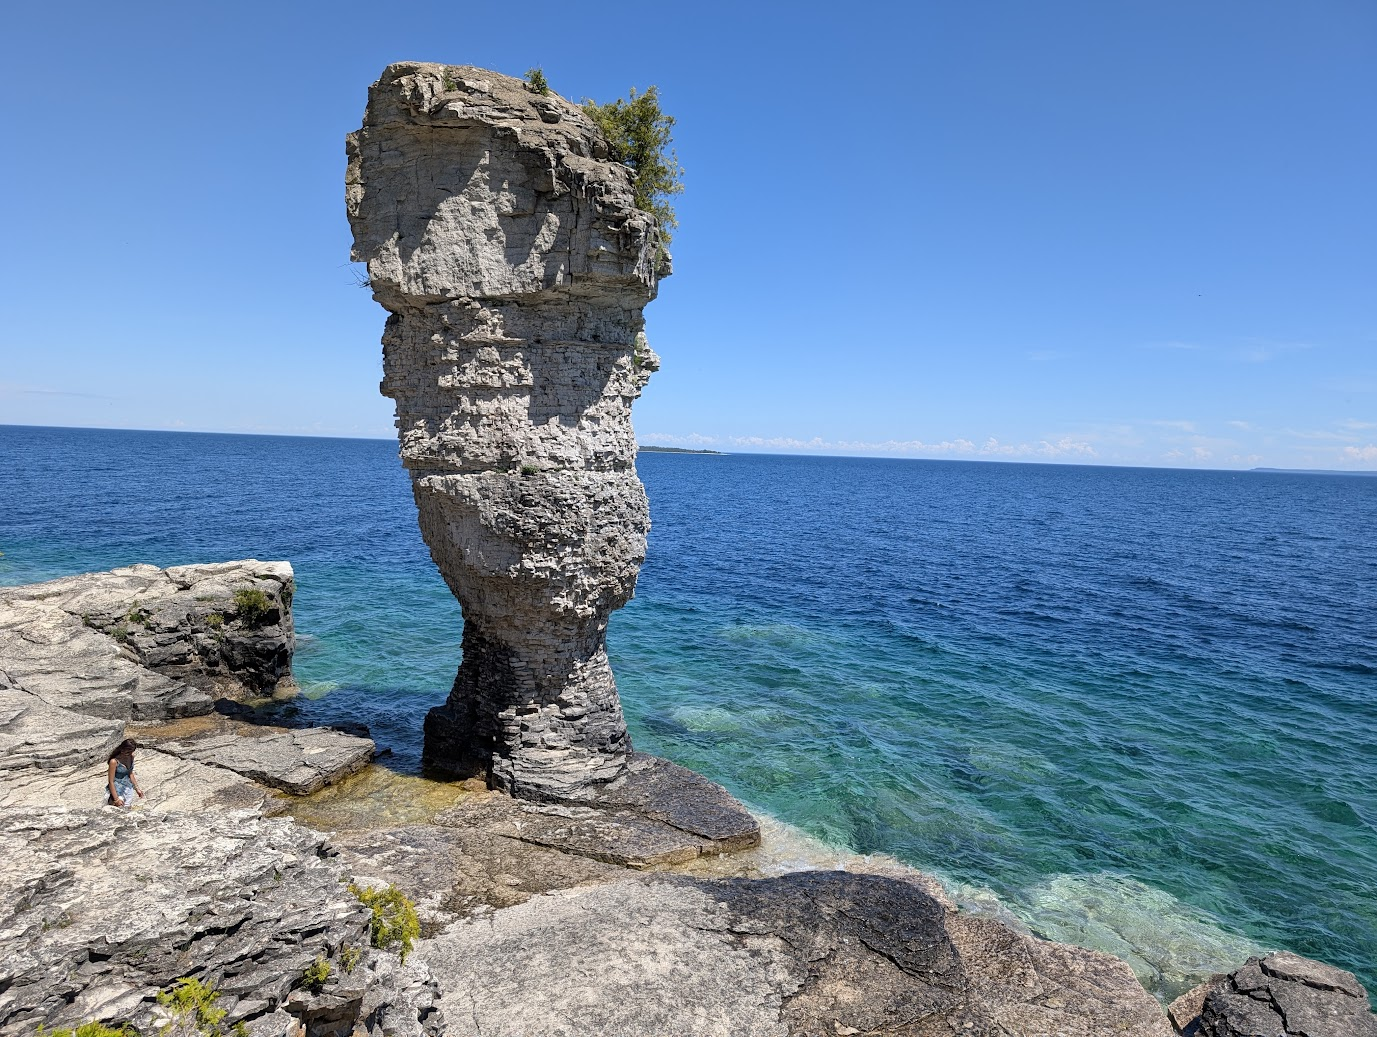
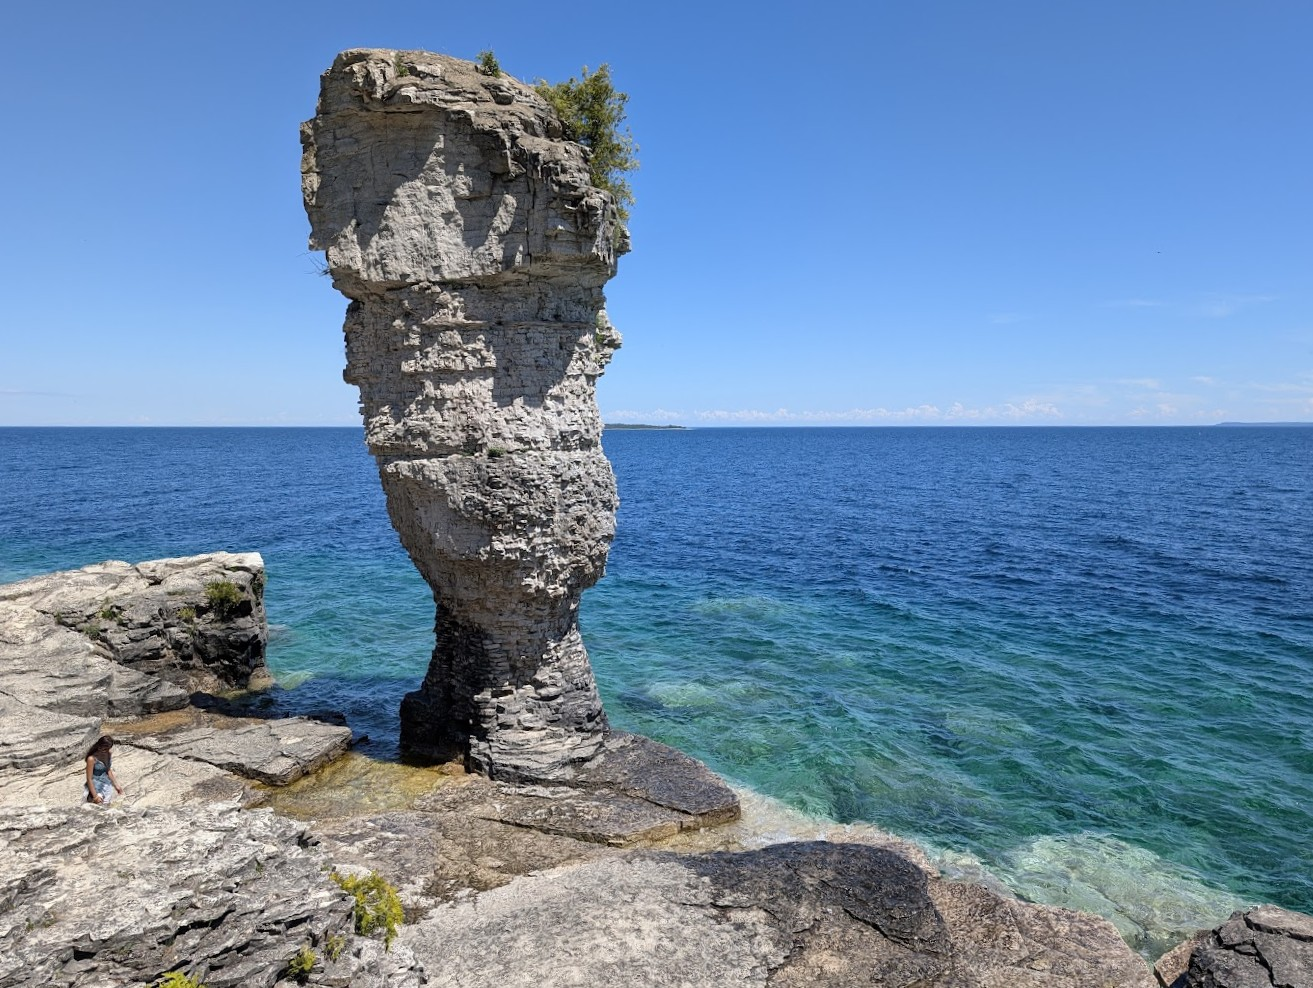
add cuyahoga valley

diff --git a/_posts/2024-07-28-NP-cuyahoga-valley.md b/_posts/2024-07-28-NP-cuyahoga-valley.md
@@ -1,0 +1,23 @@
+---
+title: Cuyahoga Valley NP, OH
+date: 2024-07-28 00:00:01.000000000 -05:00
+categories:
+- Travel
+- National Parks
+excerpt: "small park in a neighborhood"
+header:
+  teaser: /assets/images/NP/Cuyahoga1.jpg
+---
+
+## 2024.07.28
+Feels like a state park near a neighborhood, with some waterfalls and rocky cliffs. 
+
+![Cuyahoga](/assets/images/NP/Cuyahoga1.jpg)
+
+![Cuyahoga](/assets/images/NP/Cuyahoga2.jpg)
+
+![Cuyahoga](/assets/images/NP/Cuyahoga3.jpg)
+
+
+
+

diff --git a/_posts/2024-07-27-cleveland-skyline.md b/_posts/2024-07-27-cleveland-skyline.md
@@ -1,0 +1,15 @@
+---
+title:  "Cleveland Downtown"
+date:   2024-07-27 00:00:01 -0400
+categories: Photography
+excerpt: "Downtown Cleveland"
+header:
+  teaser: /assets/images/2024/Cleveland.jpg
+gallery:
+  - url: /assets/images/2024/Cleveland.jpg
+    image_path: /assets/images/2024/Cleveland.jpg
+    alt: ""
+    title: ""
+---
+
+{% include gallery caption="Downtown Cleveland from Voinovich Bicentennial Park near Lake Erie" %}

diff --git a/_posts/2024-12-27-NP-canyonlands.md b/_posts/2024-12-27-NP-canyonlands.md
@@ -6,7 +6,7 @@ categories:
 - National Parks
 excerpt: massive canyon carved by river
 header:
-  teaser: /assets/images/NP/CanyonLands3.jpg
+  teaser: /assets/images/NP/CanyonLands6.jpg
 ---
 
 ## 2024.12.27 - 2024.12.28

diff --git a/_posts/2025-06-28-NP-acadia.md b/_posts/2025-06-28-NP-acadia.md
@@ -6,7 +6,7 @@ categories:
 - National Parks
 excerpt: "US's first sunrise"
 header:
-  teaser: /assets/images/NP/Acadia3.jpg
+  teaser: /assets/images/NP/Acadia7.jpg
 ---
 
 ## 2013.07.04 - 2013.07.06
